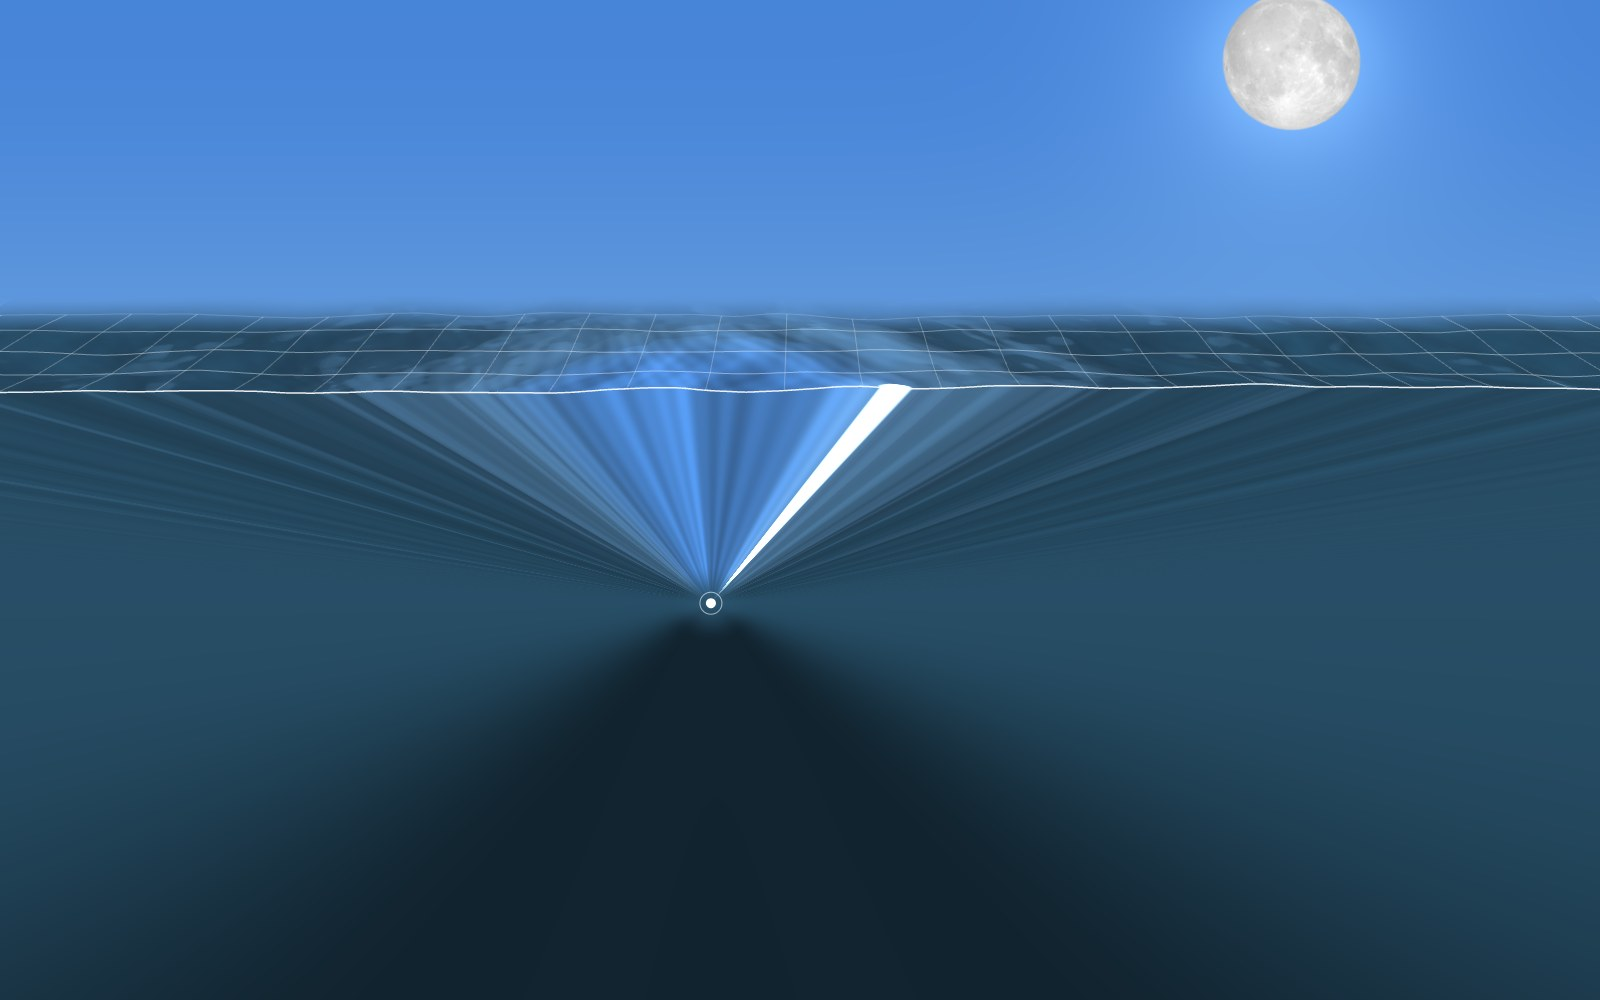
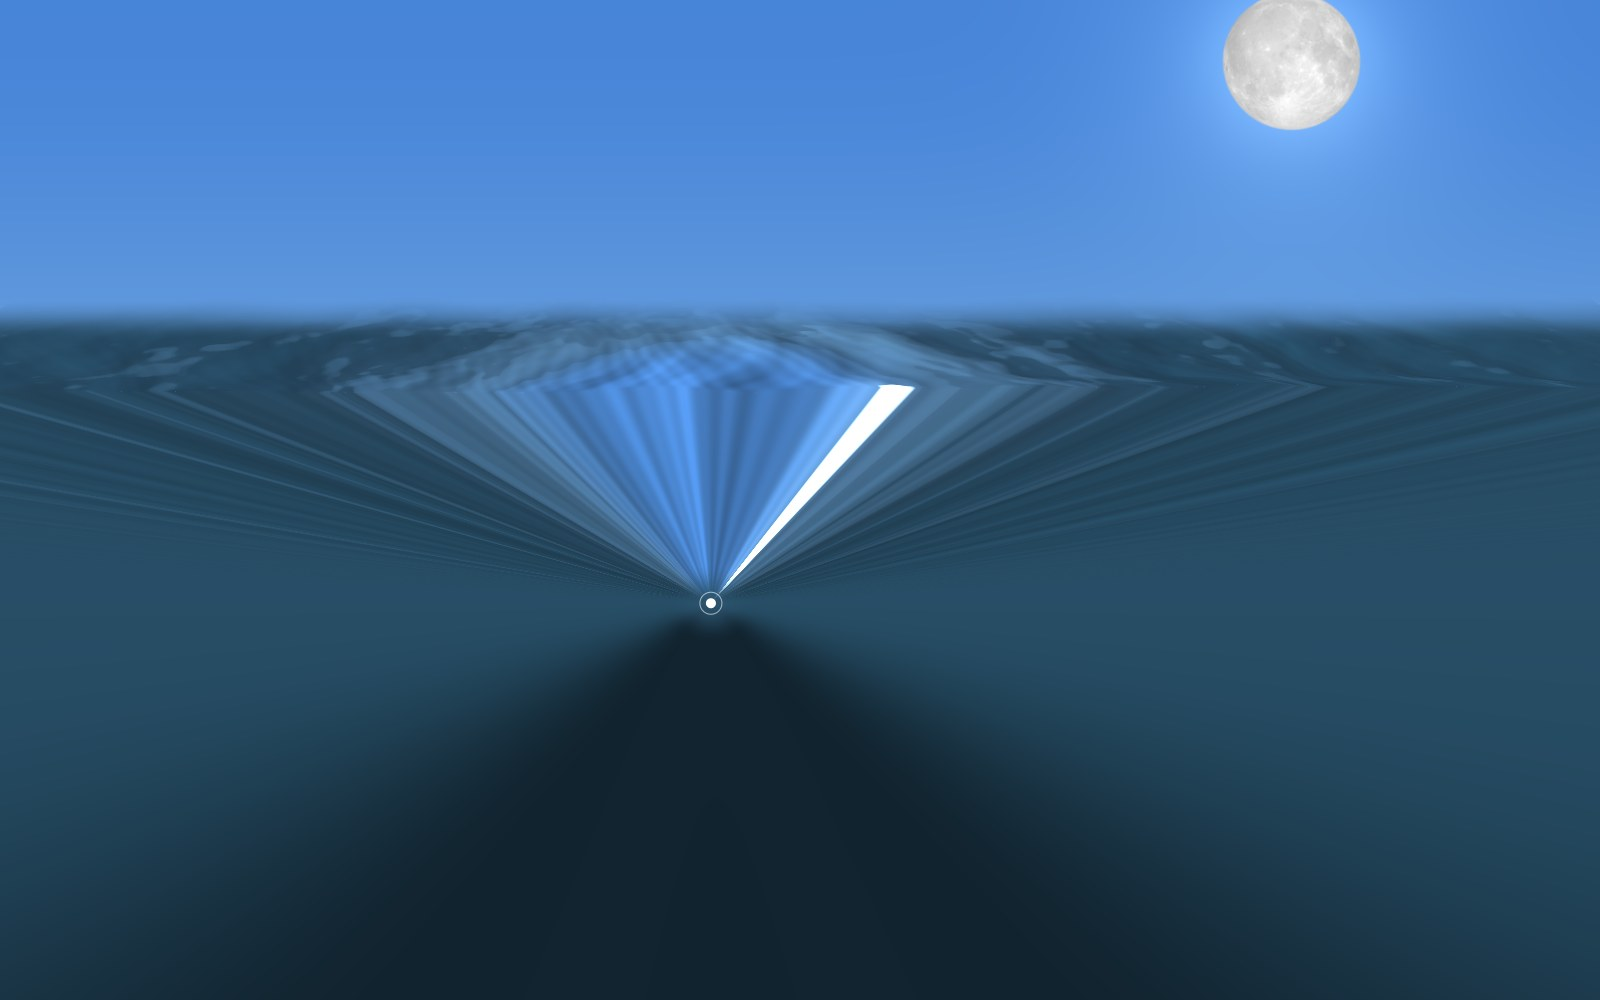
Cut: drop the wireframe too; the overlay only marks the eye

diff --git a/public/games/flymetothemoon/index.html b/public/games/flymetothemoon/index.html
@@ -855,8 +855,7 @@
   //   Cut: the water cut open and seen from the side, with the camera's eye under it (drag it about). The cut
   //   face shows either the light reaching the eye (a fan converging on it, each direction the colour the
   //   scene shows looking that way, and Snell's window on the surface above it) or god rays as seen from
-  //   the side (moonlight refracted down, gathered under the broad waves' crests). A light overlay draws the
-  //   surface as a wireframe, and the eye.
+  //   the side (moonlight refracted down, gathered under the broad waves' crests). A light overlay marks the eye.
   //   Above: across the water from just above it, the moon and its path of light on the waves, the
   //   surface fading into the sky over a long gradient toward the horizon.
   // =====================================================================================
@@ -895,7 +894,7 @@
 
     // ---- Cut ----
     // the surface along the cut, from the scene: slopes for rows x = 0..5 read back from the GPU, integrated into heights
-    // (for the wireframe and the meshes)
+    // (for the meshes)
     const NP = 2048, ROWS = 6, MARGIN = 15, XB = 5;
     const probeRT = new THREE.WebGLRenderTarget(NP, ROWS, { type: THREE.FloatType, format: THREE.RGBAFormat, depthBuffer: false, minFilter: THREE.NearestFilter, magFilter: THREE.NearestFilter });
     const probeScene = new THREE.Scene();
@@ -1012,15 +1011,9 @@
       const dpr = Math.min(devicePixelRatio || 1, 2), W = Math.round(innerWidth * dpr), H = Math.round(innerHeight * dpr);
       if (ov.width !== W || ov.height !== H) { ov.width = W; ov.height = H; }
       og.setTransform(dpr, 0, 0, dpr, 0, 0); og.clearRect(0, 0, innerWidth, innerHeight);
-      og.lineCap = 'round'; og.lineJoin = 'round'; og.strokeStyle = '#fff';
-      const S = (x, y, z) => toScreen(x, y, z, cutCam), line = (pts) => { og.beginPath(); pts.forEach((p, i) => i ? og.lineTo(...p) : og.moveTo(...p)); og.stroke(); };
-      // the surface as a wireframe: rows receding (fading toward the back) and lines across them
-      const [z0, z1] = zr, dz = (z1 - z0) / 260;
-      for (let j = 4; j >= 0; j--) { const pts = []; for (let z = z0; z <= z1; z += dz) pts.push(S(j, hAt(j, z), z)); og.globalAlpha = j ? 0.4 * (1 - Math.max(0, j - 2.6) / 2.4) : 0.9; og.lineWidth = j ? 1 : 1.5; line(pts); }
-      og.globalAlpha = 0.25; og.lineWidth = 1;
-      for (let z = Math.ceil(z0); z <= z1; z += 1) { const pts = []; for (let x = 0; x <= 4.001; x += 0.5) pts.push(S(x, hAt(x, z), z)); line(pts); }
+      og.strokeStyle = '#fff';
       // the eye
-      const E = S(0, -V.eyeDepth, V.eyeZ);
+      const E = toScreen(0, -V.eyeDepth, V.eyeZ, cutCam);
       og.globalAlpha = 1; og.fillStyle = '#fff'; og.beginPath(); og.arc(E[0], E[1], 5, 0, 7); og.fill();
       og.globalAlpha = 0.6; og.beginPath(); og.arc(E[0], E[1], 11, 0, 7); og.stroke(); og.globalAlpha = 1;
       V.eyeScr = E;

diff --git a/README.md b/README.md
@@ -112,7 +112,7 @@ Halfway through the fade from Day to Sunset:
 
 Two more views put the moon in the sky above the water, where you can move it. Both are drawn with the scene's own code, so they show the same water: the surface is the same simulated ripples, swells and waves, the light is computed the same way, and every colour follows the sky preset.
 
-**Cut** opens the water up and looks at it from the side. The camera's eye sits under the surface; drag it about, or drag anywhere else to move the moon. A light overlay draws the surface as a wireframe. The water is lit one of two ways (the **Eye light** / **Side light** button):
+**Cut** opens the water up and looks at it from the side. The camera's eye sits under the surface; drag it about, or drag anywhere else to move the moon. The water is lit one of two ways (the **Eye light** / **Side light** button):
 
 - **Eye light**: the light reaching the eye. Every direction from it glows with exactly what the scene shows the camera looking that way, so a fan of light converges on the eye: the sky through Snell's window, the moon's image as its brightest beam, and darkness past the critical angle, all moving with the waves. On the surface above, the same light draws the window as a bright circle.
 - **Side light**: god rays as you'd see them from the side: moonlight refracted down into the water and gathered under the broad waves' crests, shafts with depth that fade as they go down.
